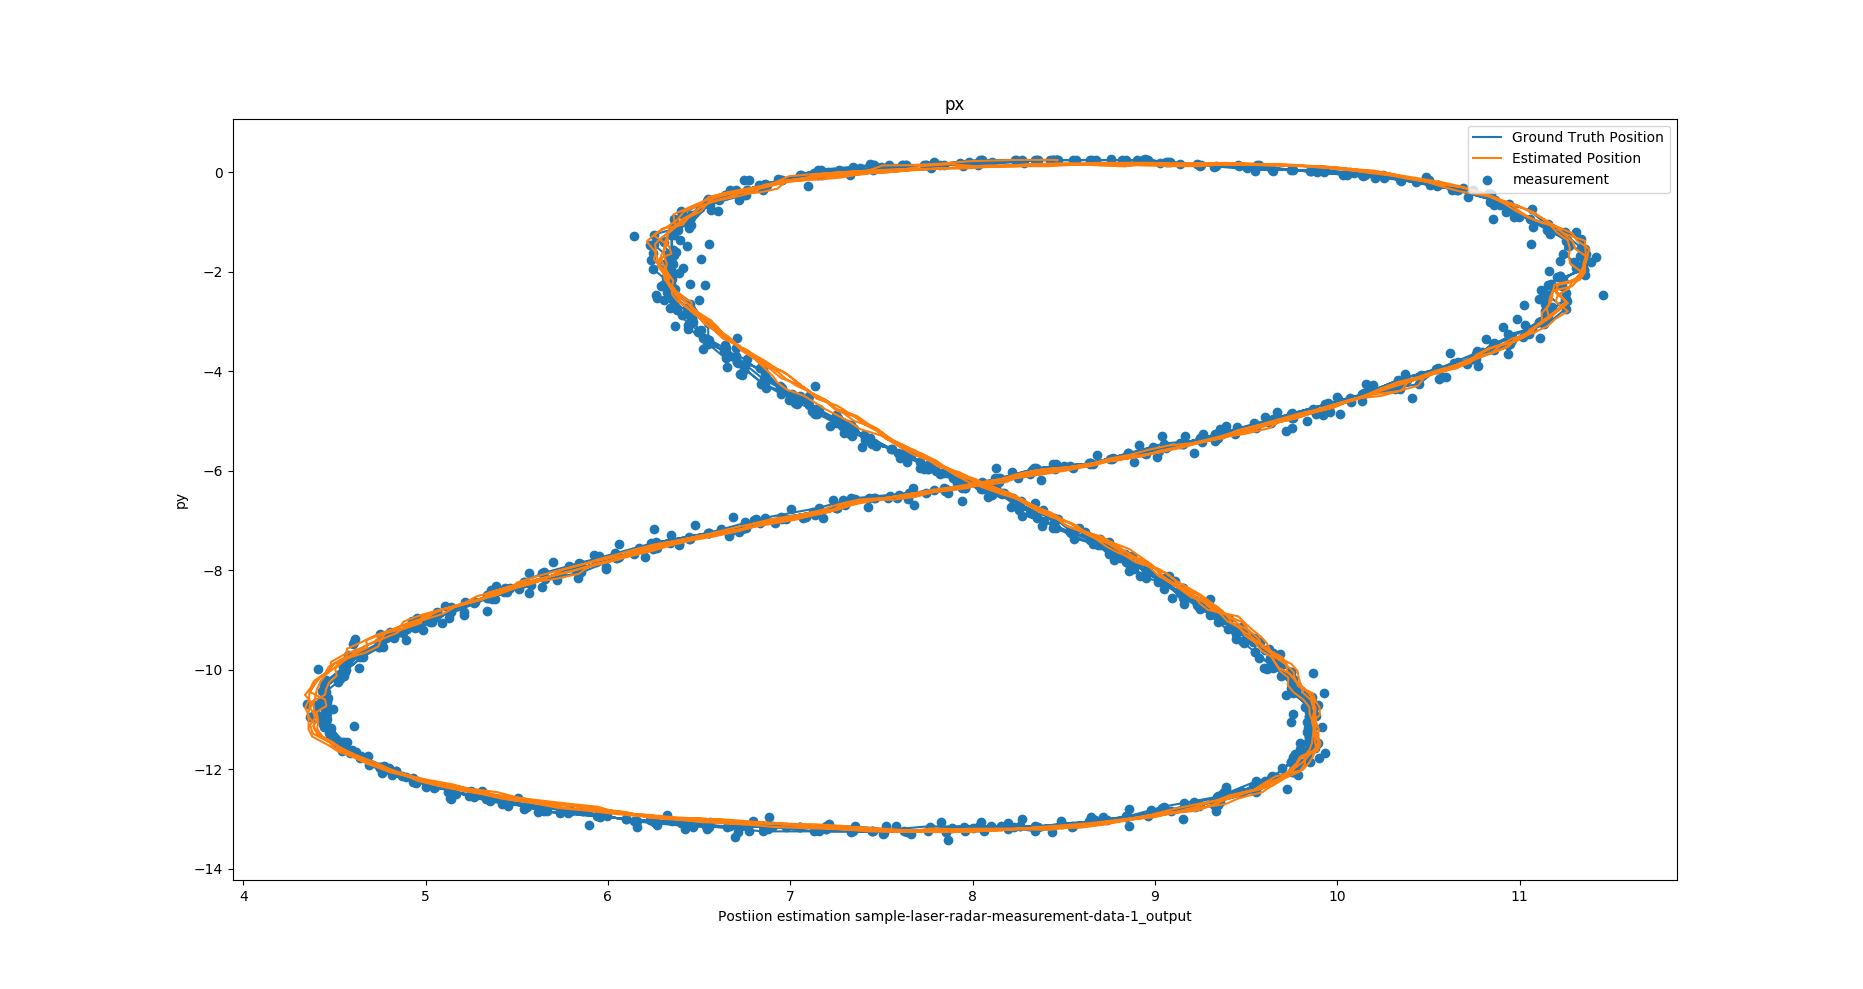
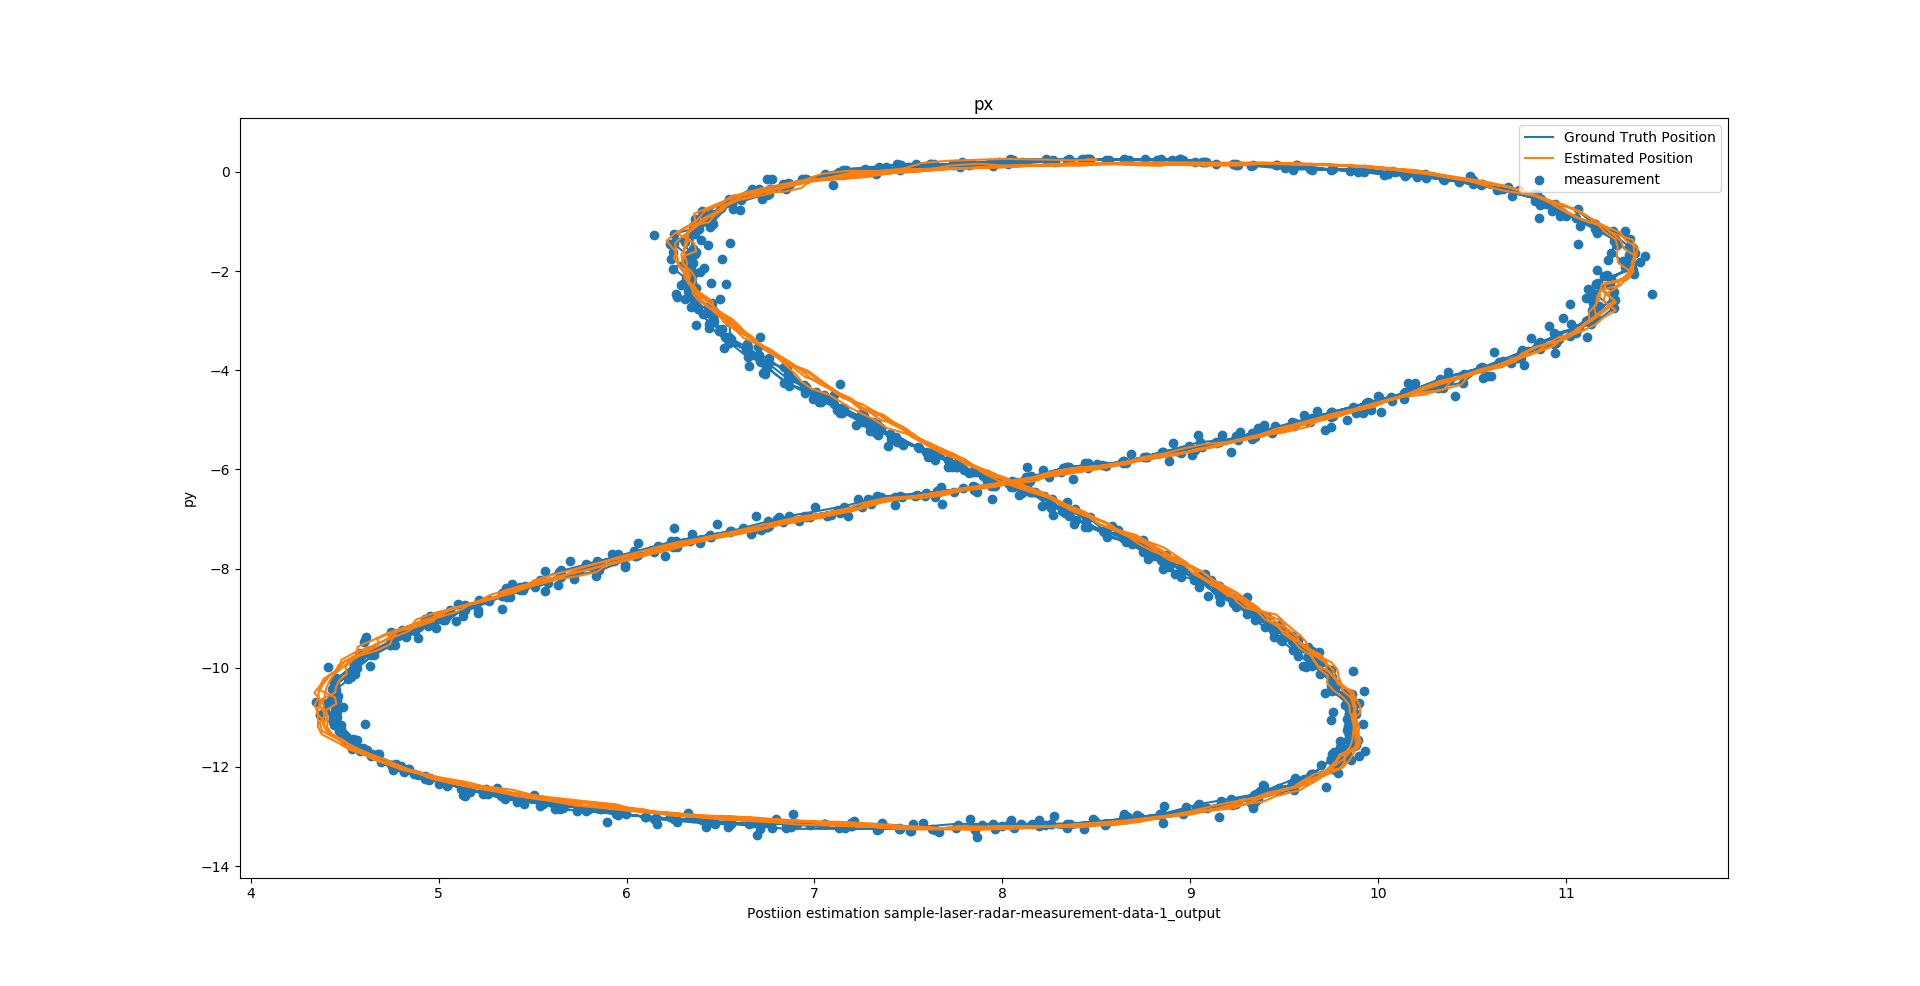
Update README, recover my std_a, and std_yawdd, improve on analyzeResult, Normalization

diff --git a/src/ukf.cpp b/src/ukf.cpp
@@ -18,13 +18,13 @@ UKF::UKF() {
   sensor_switches_[MeasurementPackage::RADAR] = true;
 
   // Process noise standard deviation longitudinal acceleration in m/s^2
-  std_a_ = 0.3; // 0.7 The original 30 may be too high,
-  // std_a_ = 11.2;
+  std_a_ = 0.7; // The original 30 may be too high,
+  // std_a_ = 11.2; // should be for data set 1
   // std_a_ is computed of the std of the measured rho_dot, which should be a reasonable approximation.
 
   // Process noise standard deviation yaw acceleration in rad/s^2
-  std_yawdd_ = 0.5; // M_PI/3.1;  // The original 30 may be too high
-  // std_yawdd_ = 107.07;
+  std_yawdd_ = M_PI/3.1;  // The original 30 may be too high
+  // std_yawdd_ = 107.07; // should be for data set 1
   // std_yawdd set to about 20th of 2*N_PI, about 20 seconds to reach to the speed of turning a full circle in one seconds.
   // It's suggested in the Slack channel to be M_PI/3 with good performance.
 
@@ -173,6 +173,18 @@ double AngleNormalize_alternative(double angle_in) {
   return angle;
 }
 
+// Make the computed velocity to be positive, by adjusting the corresponding velocity, and the yaw
+// But calling the function caused nan values for the estimates of state and convariance matrix.
+void Normalization_(VectorXd &x) { // _ side effect
+  x(3) = AngleNormalize(x(3));
+  if (x(2) < 0) { // negative velocity
+    x(2) = -x(2);
+    if ((0 < x(3)) && (x(3) < M_PI)) x(3) = x(3) - M_PI;
+    if ((-M_PI < x(3)) && (x(3) < 0)) x(3) = x(3) + M_PI;
+  }
+  return;
+}
+
 /**
  * @param {MeasurementPackage} meas_package The latest measurement data of
  * either radar or laser.
@@ -226,10 +238,8 @@ void UKF::ProcessMeasurement(MeasurementPackage meas_package) {
       UpdateLaser(measurement_pack);
       break;
     }
-    x_(3) = AngleNormalize(x_(3));
-
-    // x_(2) = fabs(x_(2)); // the velocity should be positive
-    // the above cause P having extremely and large values
+    // Normalization_(x_); // this cause eventual nan values
+    // x_(3) = AngleNormalize(x_(3));
     // print the output
     cout << "x_ = \n" << x_ << endl;
     cout << "P_ = \n" << P_ << endl;
@@ -250,6 +260,7 @@ void UKF::Prediction(double delta_t) {
   AugmentedSigmaPoints();
   SigmaPointPrediction(delta_t);
   PredictMeanAndCovariance();
+  // Normalization_(x_); // here calling Normalization_ caused state and covariance to be nan
 }
 
 /**

diff --git a/visualization_tool/analyzeresult.py b/visualization_tool/analyzeresult.py
@@ -49,13 +49,26 @@ class AnalyzeResult(object):
         plt.legend(loc='upper right')
         plt.show()
         return
-    def visualize_velocity(self,df):
+    def visualize_velocity_and_yaw(self,df):
         v_gt = np.sqrt((df['vx_gt'].values **2 + df['vy_gt'].values **2))
-#         v_est = np.sqrt((df['vx_est'].values **2 + df['vy_est'].values **2))
-        # v_est = abs(df['vel_abs'].values)  # force the velocity to be positive
         v_est = (df['vel_abs'].values)
         plt.plot(v_gt, label='Ground Truth Velocity')
         plt.plot(v_est, label='Estimated Velocity')
+        v_mod = v_est
+        v_mod[v_est < 0] = -v_est[v_est < 0]
+        plt.plot(v_mod, label = 'Modified Estimated Velocity', color='b')
+        plt.legend(loc='upper right')
+        plt.show()
+        yaw_gt = np.arctan2(df['vy_gt'].values,  df['vx_gt'].values)
+
+        yaw_est = df['yaw_angle'].values
+        yaw_mod = yaw_est
+        # adjust yaw_mod[v_est < 0] to be reversed by one np.pi and within [-np.pi, np.pi], assuming yaw_est within [-np.pi, np.pi]
+        yaw_mod[(v_est < 0) & (0 < yaw_est) & (yaw_est < np.pi)] = yaw_est[(v_est < 0) & (0 < yaw_est) & (yaw_est < np.pi)] - np.pi
+        yaw_mod[(v_est < 0) & (-np.pi < yaw_est) & (yaw_est < 0 )] = yaw_est[(v_est < 0) & (-np.pi < yaw_est) & (yaw_est < 0 )] + np.pi
+        plt.plot(yaw_gt, label='Ground Truth Yaw Angle')
+        plt.plot(yaw_est, label='Estimated Yaw Angle', marker='*')
+        plt.plot(yaw_mod, label="Modified Estimated Yaw Angle", color='b')
         plt.legend(loc='upper right')
         plt.show()
         return
@@ -76,8 +89,8 @@ class AnalyzeResult(object):
         df = self.__load_input_data(kalman_input_file)
         self.disp_nis(df)
         self.visulize_position(df)
-        self.visualize_velocity(df)
-        self.visualize_yaw_angle(df)
+        self.visualize_velocity_and_yaw(df)
+        #self.visualize_yaw_angle(df)
         df.to_csv(self.csv_file_name)
         print(self.csv_file_name + ' saved')
         return df

diff --git a/README.md b/README.md
@@ -6,21 +6,30 @@ Self-Driving Car Engineer Nanodegree Program
 
 Here is the RMSE of the UKF implementation:
 
-For sample 1:
-0.0495916
-0.0564871
- 0.517909
- 0.528349
+For both of the datasets, the RMSE meet the rubric. 
 
-For sample 2:
-0.168976
-0.182777
-0.277011
-0.352458
+### For sample dataset 1:
+
+- 0.0499589
+- 0.055368
+- 0.582238
+- 0.530754
+
+### For sample dataset 2:
+
+- 0.154096
+- 0.183253
+- 0.249703
+- 0.353453
 
 ## NIS
 
-Here are the NIS curves
+Here are the NIS curves. The choice of motion noise (std_a, std_yawdd) is based on heuristics, basing on the distribution of the 
+measurements of rho (longitude speed), analysis of the ground truth result in the distribution statistics of turning 
+angle rate acceleration, and the assumption of the characteristics of bike' movement. My analysis suggested much larger 
+std_a, and std_yawdd for dataset 1, but too large values would cause estimations eventually becomes all "nan" values. 
+
+Also, these two datasets have rather different motion noise patterns. Dataset 2 would need much smaller std_a and std_yawdd. 
 
 ![NIS of LIDAR for sample 1](./data/nis-lidar-sample-1.png)
 ![NIS of RADAR for sample 1](./data/nis-radar-sample-1.png)
@@ -30,15 +39,40 @@ Here are the NIS curves
 
 ## Estimation Visualization
 
+### Dataset 1
+
 ![Position for sample 1](./data/position-estimate-sample-1.png)
+
+In the following, the velocity estimation is mostly negative. The negation of which seems much closer to the ground truth, and the measurements. 
+
+I tried to transform the negative velocity estimation into positive one by negating the velocity value and adjusting the yaw angle to be one PI shift 
+(that is, also change the direction of the movement direction of the speed to compensate on the negation of the velocity.) However, when applying the transformation
+in the program, it caused the estimations eventually becomes "nan" values. The root cause is not yet understood. 
+
+In the following diagram, I tried to show the effect of transformation, in lieu of the failed implementation in the UnscentedKF program. 
+The negated velocity (Modified Estimated Velocity) is shown as blue color line.
+The adjusted yaw (Modified Estimated Yaw Angle) is shown in blue color. However, it turned out to be the same as the original estimated yaw angle. 
 
 ![Velocity for sample 1](./data/velocity-sample-1.png)
 ![Yaw angle for sample 1](./data/yaw-angle-sample-1.png)
 
-![Position for sample 1](./data/position-estimate-sample-2.png)
+### Dataset 2
 
-![Velocity for sample 1](./data/velocity-sample-2.png)
-![Yaw angle for sample 1](./data/yaw-angle-sample-2.png)
+For dataset 2, there is not much issue. 
+
+![Position for sample 2](./data/position-estimate-sample-2.png)
+
+![Velocity for sample 2](./data/velocity-sample-2.png)
+![Yaw angle for sample 2](./data/yaw-angle-sample-2.png)
+
+## Further Studies
+
+More study is needed to understand the characteristics of numerical calculation to address the tendency of divergence to "nan" values. 
+
+Furthermore, when there is more time, I'd like to implement more validation and test support for assurance of implementation correctness. 
+It's quite error prone in the implementation, causing doubt of the nature of the problems whether it's of the appropriateness of algorithm, 
+or the correctness of implementation. 
+
 
 ## Dependencies
 
